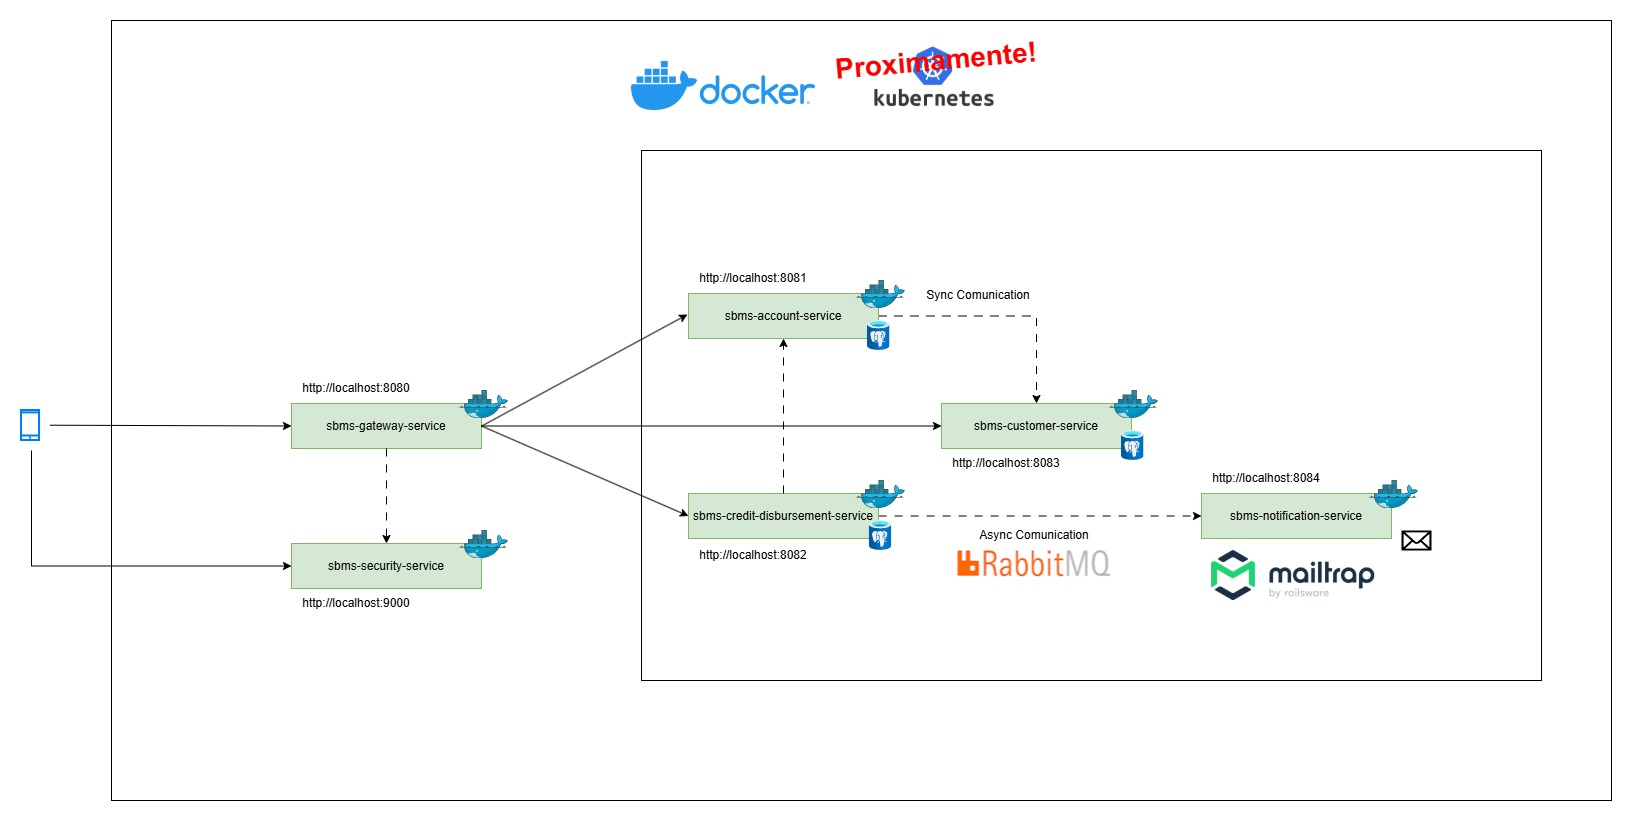
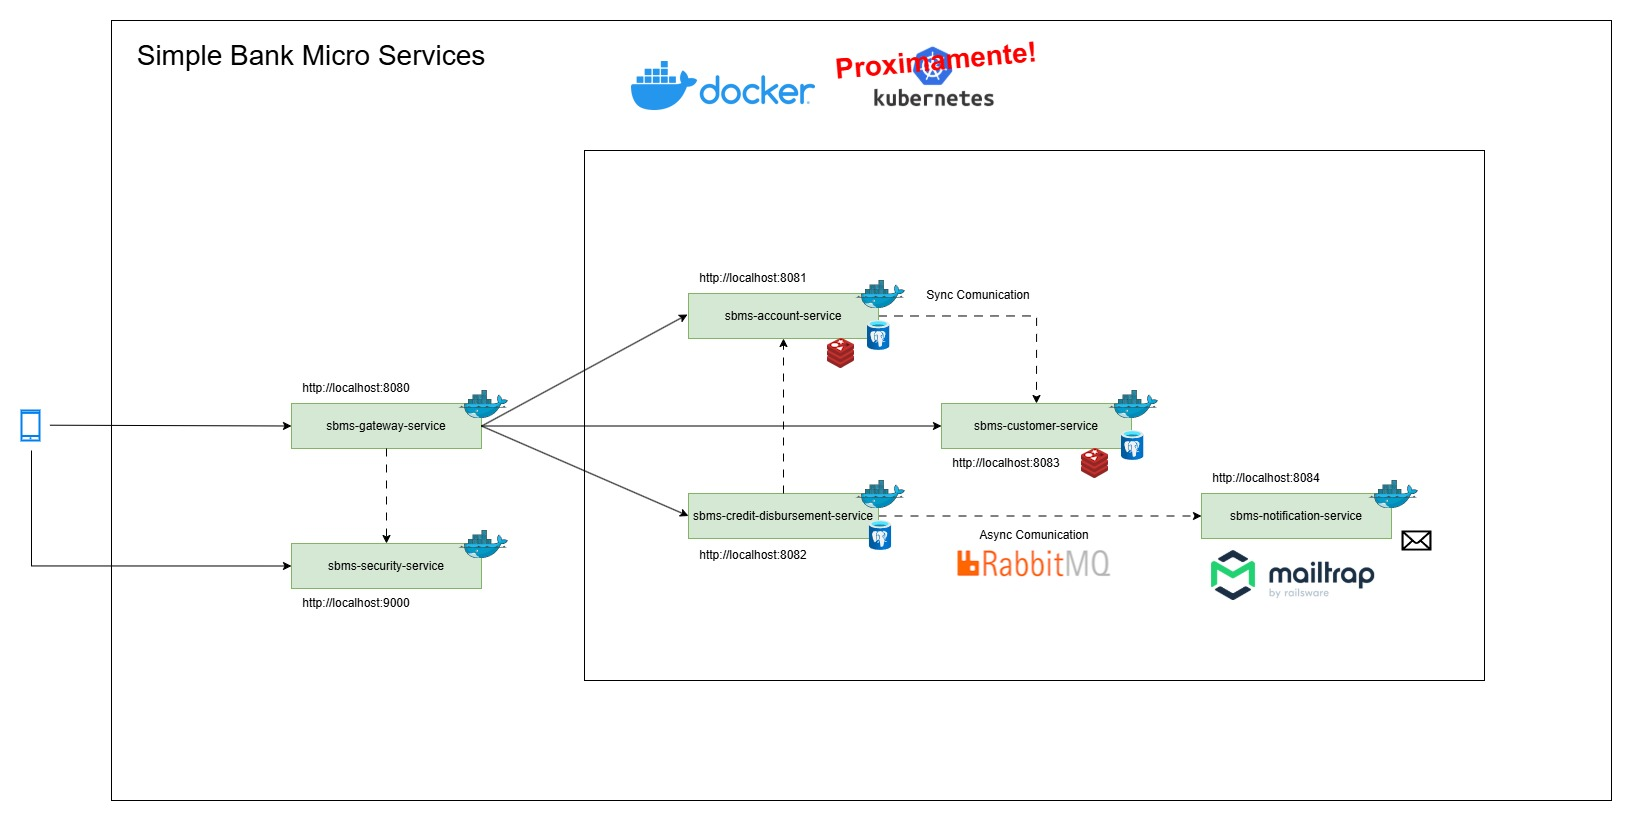
Correcciones en customer-service

diff --git a/sbms-customer-service/src/main/java/com/bdgarat/sbmscustomerservice/controller/CustomerRESTController.java b/sbms-customer-service/src/main/java/com/bdgarat/sbmscustomerservice/controller/CustomerRESTController.java
@@ -1,15 +1,18 @@
 package com.bdgarat.sbmscustomerservice.controller;
 
 import com.bdgarat.sbmscustomerservice.dto.CustomerDTO;
+import com.bdgarat.sbmscustomerservice.entity.CustomerEntity;
 import com.bdgarat.sbmscustomerservice.exceptions.BadResourceRequestException;
 import com.bdgarat.sbmscustomerservice.service.ICustomerService;
 import lombok.AllArgsConstructor;
+import lombok.extern.log4j.Log4j2;
 import org.springframework.http.HttpStatus;
 import org.springframework.web.bind.annotation.*;
 import org.springframework.web.server.ResponseStatusException;
 
 import java.util.List;
 
+@Log4j2
 @RestController
 @RequestMapping("/customers")
 @AllArgsConstructor
@@ -22,22 +25,59 @@ public class CustomerRESTController {
         return this.customerService.getAll();
     }
 
+    @GetMapping("/cu/{cu}")
+    public CustomerDTO getCustomerByCu(@PathVariable String cu) {
+        CustomerDTO customer = this.customerService.getByCu(cu);
+        if (customer == null) {
+            log.debug("Customer with Cu {} not found", cu);
+            throw new ResponseStatusException(HttpStatus.NOT_FOUND, "Customer with cu " + cu + " not found");
+        }
+        return customer;
+    }
+
+    @GetMapping("/id/{id}")
+    public CustomerDTO getCustomerById(@PathVariable String id) {
+        CustomerDTO customer = this.customerService.getById(id);
+        if (customer == null) {
+            log.debug("Customer with Id {} not found", id);
+            throw new ResponseStatusException(
+                    HttpStatus.NOT_FOUND, "Customer with id " + id + " not found");
+        }
+        return customer;
+    }
+
     @PostMapping
     @ResponseStatus(HttpStatus.CREATED)
     public CustomerDTO addCustomer(@RequestBody CustomerDTO customerDTO) {
-        if (!CustomerDTO.isValid(customerDTO)) {
-            throw new BadResourceRequestException("The customer DTO is invalid");
-        }
         try {
             return this.customerService.add(customerDTO);
         } catch (Exception ex) {
+            log.debug(ex.getMessage(), ex);
             throw new ResponseStatusException(
                     HttpStatus.BAD_REQUEST, ex.getMessage(), ex);
         }
     }
 
-    @GetMapping("/cu/{cu}")
-    public CustomerDTO getCustomerByCu(@PathVariable String cu) {
-        return this.customerService.getByCu(cu);
+    @PutMapping
+    public CustomerDTO updateCustomer(@RequestBody CustomerDTO customerDTO) {
+        try {
+            return this.customerService.update(customerDTO);
+        } catch (Exception ex) {
+            log.debug(ex.getMessage(), ex);
+            throw new ResponseStatusException(
+                    HttpStatus.BAD_REQUEST, ex.getMessage(), ex);
+        }
+    }
+
+    @DeleteMapping
+    @ResponseStatus(HttpStatus.NO_CONTENT)
+    public void deleteCustomer(@RequestBody CustomerDTO customerDTO) {
+        try {
+            this.customerService.delete(customerDTO);
+        } catch (Exception ex) {
+            log.debug(ex.getMessage(), ex);
+            throw new ResponseStatusException(
+                    HttpStatus.BAD_REQUEST, ex.getMessage(), ex);
+        }
     }
 }

diff --git a/sbms-account-service/src/main/java/com/bdgarat/sbmsaccountservice/service/AccountServiceImpl.java b/sbms-account-service/src/main/java/com/bdgarat/sbmsaccountservice/service/AccountServiceImpl.java
@@ -8,8 +8,10 @@ import com.bdgarat.sbmsaccountservice.entity.AccountEntity;
 import com.bdgarat.sbmsaccountservice.repository.IAccountRepository;
 import lombok.AllArgsConstructor;
 import lombok.extern.log4j.Log4j2;
+import org.springframework.cache.annotation.Cacheable;
 import org.springframework.http.ResponseEntity;
 import org.springframework.stereotype.Service;
+import org.springframework.transaction.annotation.Transactional;
 
 import java.util.List;
 import java.util.Optional;
@@ -50,10 +52,6 @@ public class AccountServiceImpl implements IAccountService {
             log.error("Error adding account to account repository: {}", responseEntityNewCustomerDTO);
             return new AccountDTO();
         }
-
-
-
-
     }
 
     @Override
@@ -72,11 +70,17 @@ public class AccountServiceImpl implements IAccountService {
         accountRepository.deleteById(accountDTO.getId());
     }
 
+    @Cacheable(value = "accountsId",
+            key = "#id",
+            unless = "#result == null",
+            sync = true)
+    @Transactional(readOnly = true)
     @Override
     public AccountDTO getById(String id) {
         log.info("Get account by id {}", id);
-
-        return null;
+        return accountRepository.findById(id)
+                .map(AccountEntity::getDto)
+                .orElse(null);
     }
 
     @Override

diff --git a/sbms-customer-service/src/main/java/com/bdgarat/sbmscustomerservice/service/CustomerServiceImpl.java b/sbms-customer-service/src/main/java/com/bdgarat/sbmscustomerservice/service/CustomerServiceImpl.java
@@ -64,7 +64,6 @@ public class CustomerServiceImpl implements ICustomerService{
         log.info("Add customer {}", customerDTO);
         boolean exists = this.customerRepository.existsById(customerDTO.getCu());
         if(exists) {
-            log.warn("Customer with id does already exist: {}", customerDTO.getId());
             throw new RuntimeException("Registry already found");
         }
         CustomerEntity customerEntity = new CustomerEntity();
@@ -88,7 +87,6 @@ public class CustomerServiceImpl implements ICustomerService{
             customer.setData(customerDTO);
             return this.customerRepository.save(customer).getDto();
         } else {
-            log.warn("Customer with id does NOT exist: {}", customerDTO.getId());
             throw new NoSuchResourceFoundException("Registry NOT found");
         }
     }
@@ -107,7 +105,6 @@ public class CustomerServiceImpl implements ICustomerService{
         if(customerEntity.isPresent()) {
             this.customerRepository.delete(customerEntity.get());
         } else {
-            log.warn("Customer with id does NOT exist: {}", customerDTO.getId());
             throw new NoSuchResourceFoundException("Registry NOT found");
         }
     }

diff --git a/sbms-customer-service/src/main/java/com/bdgarat/sbmscustomerservice/dto/CustomerDTO.java b/sbms-customer-service/src/main/java/com/bdgarat/sbmscustomerservice/dto/CustomerDTO.java
@@ -18,8 +18,4 @@ public class CustomerDTO {
     private String mobile;
     private String address;
 
-
-    public static boolean isValid(CustomerDTO customerDTO) {
-        return customerDTO.getCu() != null && customerDTO.getName() != null && customerDTO.getEmail() != null;
-    }
 }

diff --git a/README.md b/README.md
@@ -12,8 +12,9 @@ Es un proyecto que encaré a modo de práctica de construcción de microservicio
 4. Spring Security 2025.1.0 + OAuth2
 5. Spring Cloud 2025.1.0 + Resilience4j (Circuit Breaker)
 6. RabbitMQ + AMPQ
-7. Docker Compose
-8. Mailtrap.io (Plataforma de envio de mails SMTP)
+7. Database caching using Redis
+8. Docker Compose
+9. Mailtrap.io (Plataforma de envio de mails SMTP)
 
 ## ¿Que recursos utilizaste para armarlo?
 Me basé principalmente en un tutorial de Stive Tech que encontré y me pareció super valioso, ya que explica a detenimiento los conceptos de microservicios que estaba buscando. El link a la playlist es el siguiente: [Playlist Stive Tech](https://www.youtube.com/playlist?list=PLkiIEFVLQKqjy2aIGfHlNAe51TC1wlIYt).
